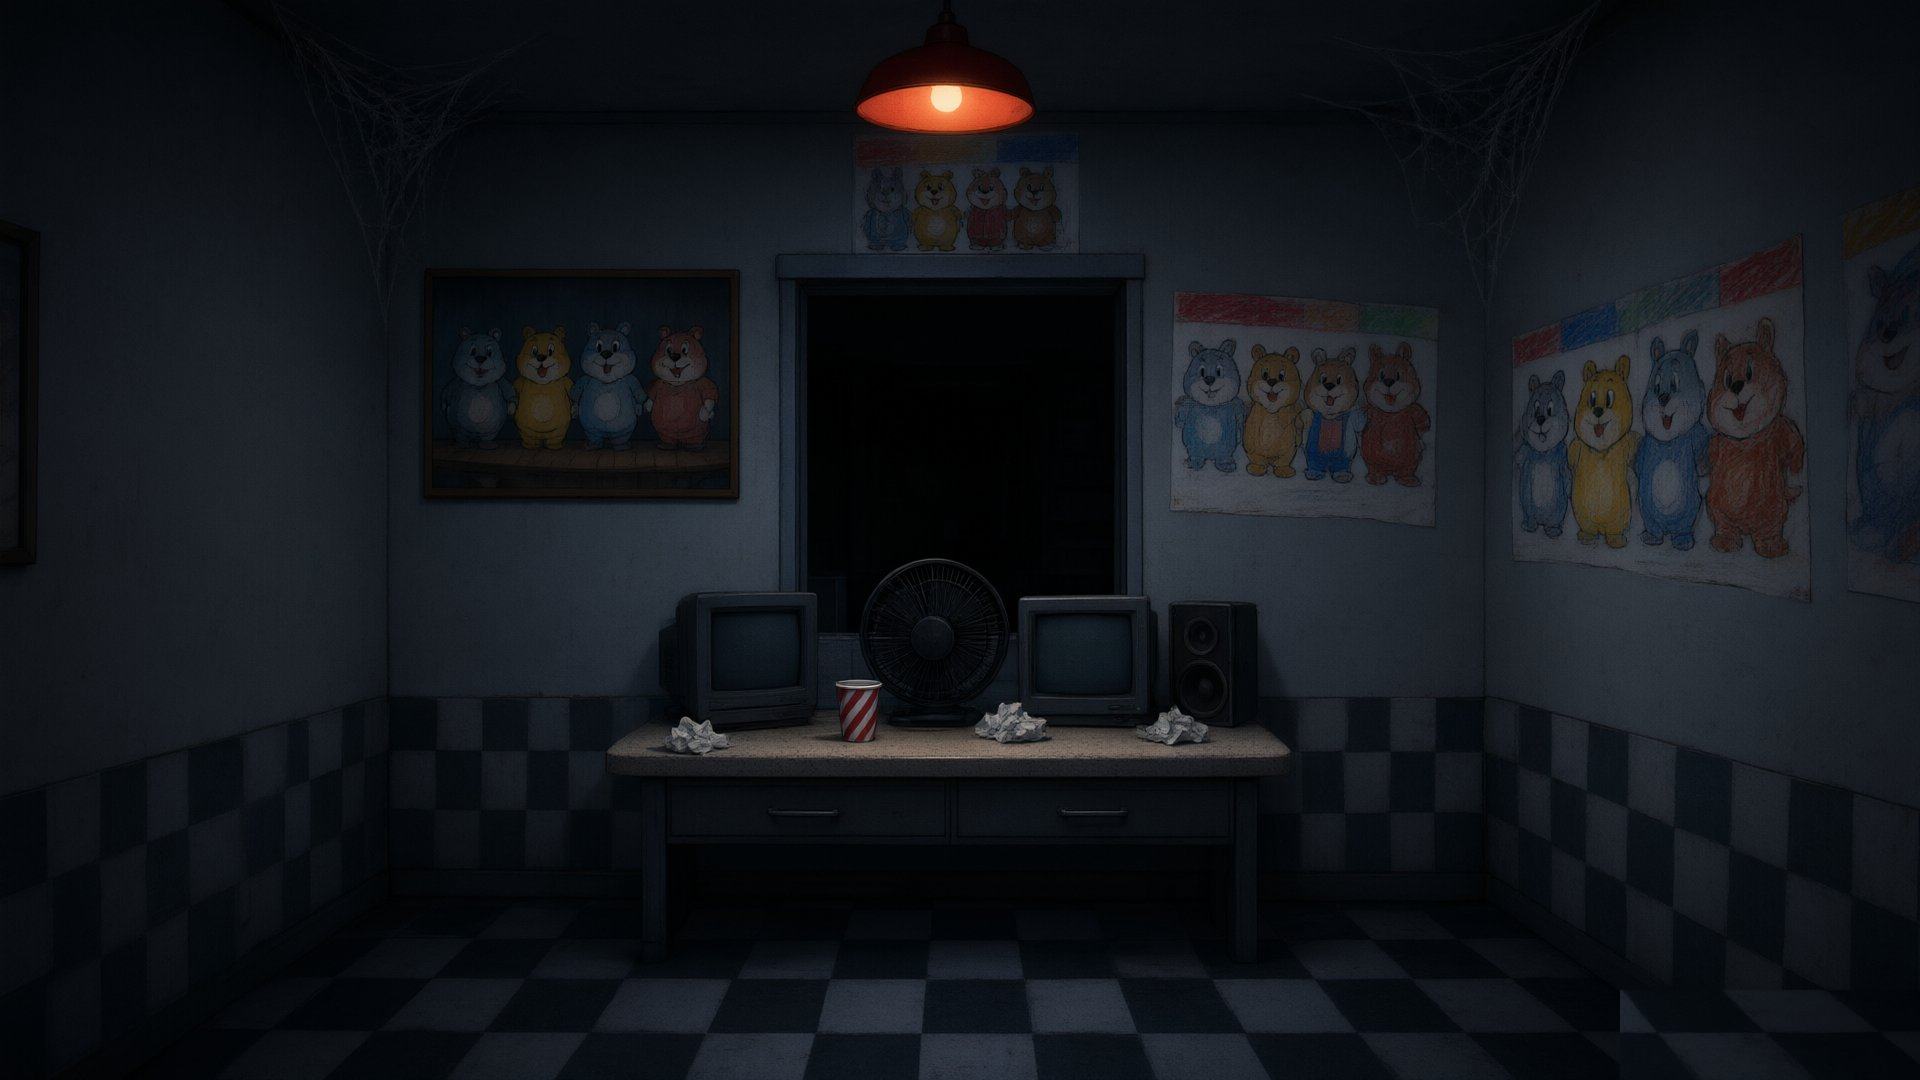
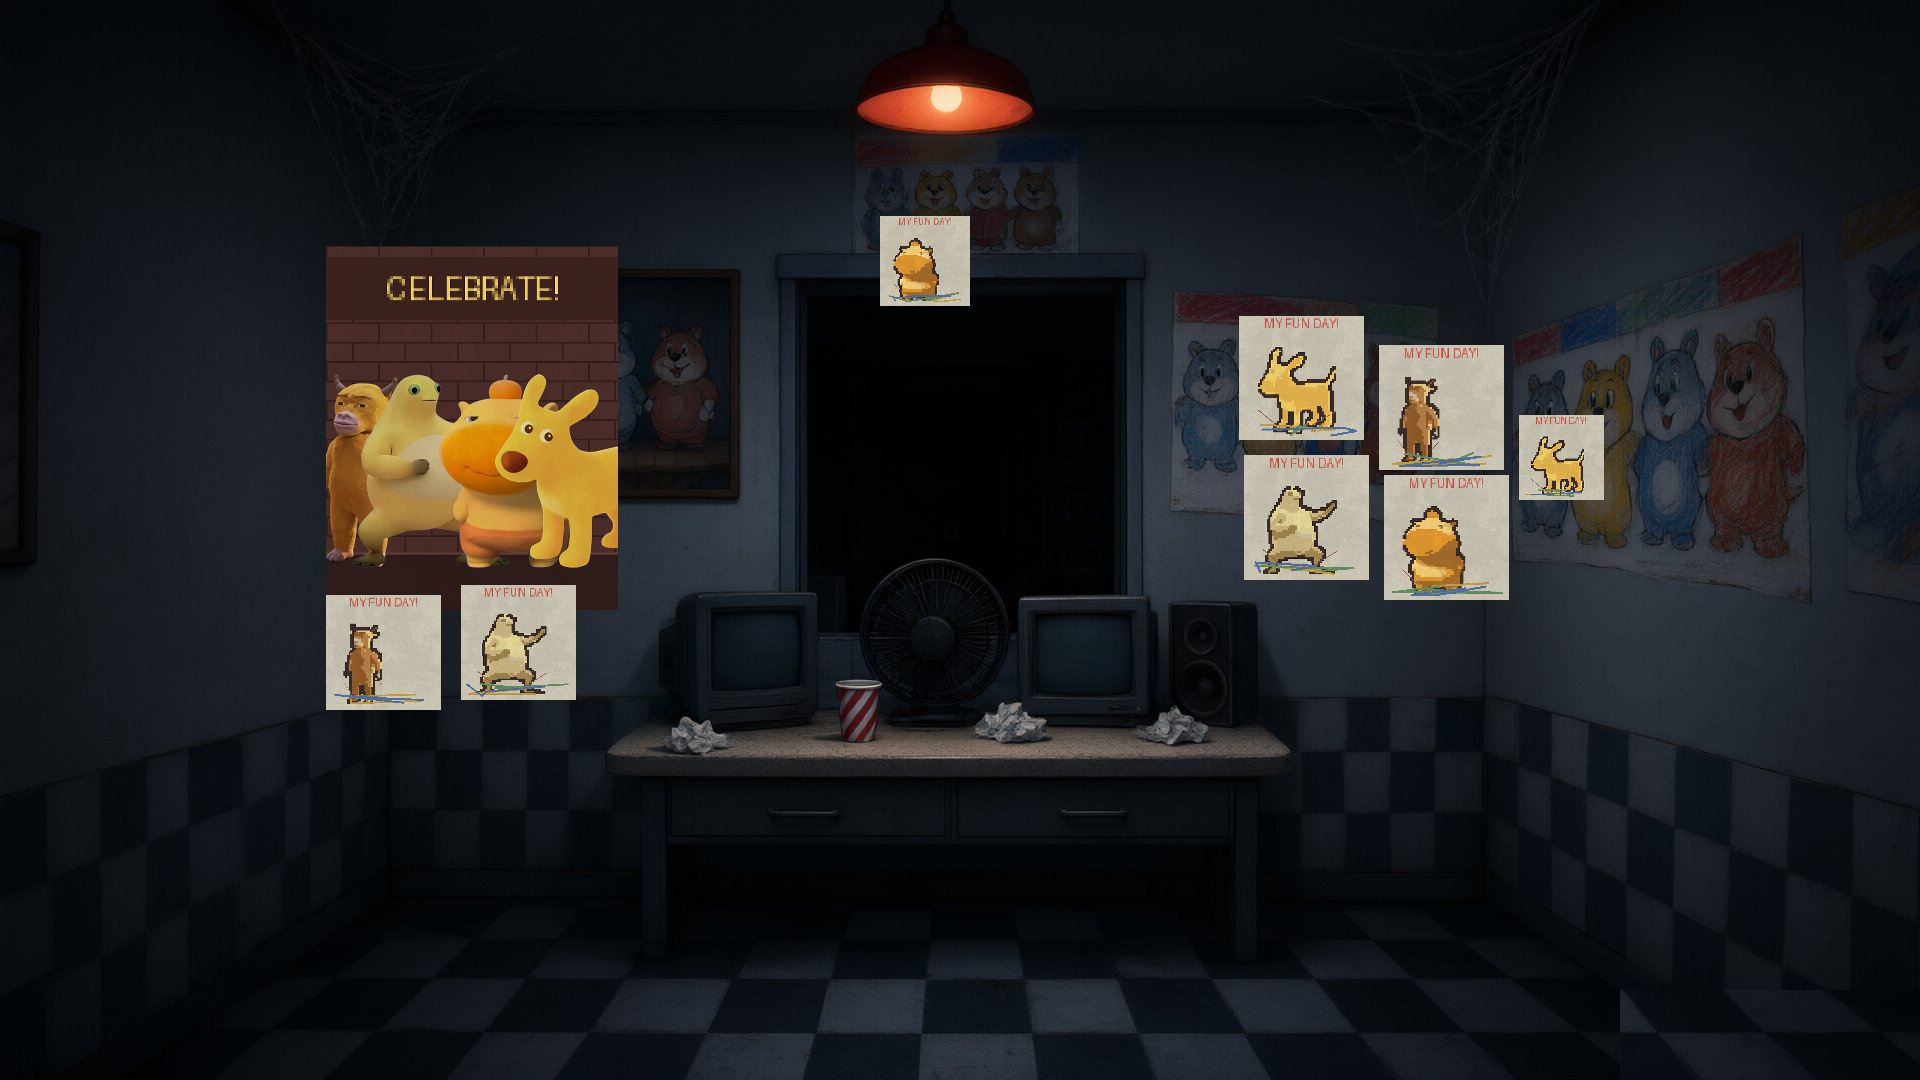
把千问背景里后墙/侧墙的海报和儿童画换回我们自己的角色版
绿子要求保留千问的办公室，只把墙上的画换成之前程序渲染的（用我们自己的角色）。
新增 tools/swap_wall_art.py：复用 gen_placeholder_art 的画生成函数得到干净的
海报/儿童画，再按同一相机参数透视投到屏幕上贴回千问的图。

Changed region(s): [[0.1562, 0.2139, 0.3438, 0.6722], [0.625, 0.275, 0.8438, 0.5806], [0.4375, 0.1833, 0.5312, 0.3056]]

diff --git a/tools/swap_wall_art.py b/tools/swap_wall_art.py
@@ -1,0 +1,153 @@
+#!/usr/bin/env python3
+"""把千问 AI 的办公室背景里、后墙/侧墙上的海报和儿童画，换成我们之前程序渲染的
+（用我们自己角色的）版本。
+
+做法：复用 gen_placeholder_art.py 里的「海报 / 儿童画」生成函数得到干净的画（带砖底 /
+纸底，已经是我们自己的角色），再用同一套相机参数把每张画按它在墙上的 3D 位置
+透视投到屏幕上，贴回千问的图里对应的位置。
+
+因为程序版和千问版是同一个 FNAF 1 办公室、同一个机位，墙和画在屏幕上的位置基本
+重合，所以直接按程序算出来的位置贴回去就行。绿子看了若觉得某张画位置偏了，
+调下面 DECALS 里的 u/v（或脚本里的偏移）即可。
+
+运行：
+    C:/Users/DELL/.workbuddy-ai/binaries/python/envs/default/Scripts/python.exe \
+        tools/swap_wall_art.py
+"""
+
+import math
+import os
+import sys
+
+import numpy as np
+from PIL import Image
+
+ROOT = os.path.dirname(os.path.dirname(os.path.abspath(__file__)))
+if ROOT not in sys.path:
+    sys.path.insert(0, os.path.join(ROOT, "tools"))
+import gen_placeholder_art as G  # noqa: E402
+
+OUT = G.OUT
+W, H = G.W, G.H
+
+
+def to_pil(arr):
+    return Image.fromarray((np.clip(arr, 0.0, 1.0) * 255).astype(np.uint8), "RGB")
+
+
+def plane_of(axis, side_max):
+    if axis == 2:
+        return G.ROOM_MAX[2] if side_max else G.ROOM_MIN[2]
+    if axis == 0:
+        return G.ROOM_MIN[0] if not side_max else G.ROOM_MAX[0]
+    return G.ROOM_MIN[1] if not side_max else G.ROOM_MAX[1]
+
+
+def world_pt(axis, plane, u, v):
+    if axis == 0:
+        return (plane, v, u)
+    if axis == 1:
+        return (u, plane, v)
+    return (u, v, plane)
+
+
+def perspective_coeffs(src_pts, dst_pts):
+    """解出 dst->src 的 8 个透视系数（PIL 的 Image.PERSPECTIVE 要的就是这个）。"""
+    A = []
+    B = []
+    for (x, y), (xp, yp) in zip(dst_pts, src_pts):
+        A.append([x, y, 1, 0, 0, 0, -x * xp, -y * xp])
+        B.append(xp)
+        A.append([0, 0, 0, x, y, 1, -x * yp, -y * yp])
+        B.append(yp)
+    sol, _, _, _ = np.linalg.lstsq(np.array(A, np.float64), np.array(B, np.float64),
+                                   rcond=None)
+    return [float(v) for v in sol]
+
+
+def build_sprites(tex):
+    sprites = [G.load_character(code) for code in G.CAST]
+    celebrate = to_pil(G.make_celebrate_poster(tex["paper"], sprites))
+    have = [s for s in sprites if s is not None]
+    draws = []
+    for i, seed in enumerate((3, 5, 7, 11, 13, 17, 19, 23)):
+        draws.append(to_pil(G.make_drawing(tex["paper"], seed,
+                                            have[i % len(have)] if have else None)))
+    return celebrate, draws
+
+
+def main():
+    print("生成我们自己的海报 / 儿童画 …")
+    tex = G.load_textures()
+    celebrate, draws = build_sprites(tex)
+
+    # (axis, side_max, u0, v0, u1, v1, sprite) —— 抄自 gen_placeholder_art.build_decals
+    DECALS = [
+        (2, True, -2.54, 1.02, -1.37, 2.48, celebrate),
+        (2, True, -2.54, 0.62, -2.08, 1.08, draws[0]),
+        (2, True, -2.00, 0.66, -1.54, 1.12, draws[1]),
+        (2, True, -0.32, 2.24, 0.04, 2.60, draws[2]),
+        (2, True, 1.12, 1.70, 1.62, 2.20, draws[3]),
+        (2, True, 1.68, 1.58, 2.18, 2.08, draws[4]),
+        (2, True, 1.14, 1.14, 1.64, 1.64, draws[5]),
+        (2, True, 1.70, 1.06, 2.20, 1.56, draws[6]),
+        (2, True, 2.24, 1.46, 2.58, 1.80, draws[7]),
+        (0, False, -1.12, 1.30, -0.56, 1.86, draws[0]),
+        (0, False, -0.48, 1.46, -0.02, 1.92, draws[2]),
+        (0, True, -1.12, 1.30, -0.56, 1.86, draws[1]),
+        (0, True, -0.48, 1.46, -0.02, 1.92, draws[3]),
+    ]
+
+    for name, yaw, _seed in G.VIEWS:
+        src_path = os.path.join(OUT, "bg_office_%s.png" % name)
+        if not os.path.exists(src_path):
+            print("  ! 跳过（没有 %s）" % name)
+            continue
+        base = Image.open(src_path).convert("RGB")
+        printed = False
+
+        for axis, side_max, u0, v0, u1, v1, sprite in DECALS:
+            plane = plane_of(axis, side_max)
+            # 画的四个角：(u,v) -> 屏幕；sprite 角对应 (du,dv)
+            # du=(u-u0)/(u1-u0), dv=(v1-v)/(v1-v0)：dv=0 在 v=v1(顶)，
+            # dv=1 在 v=v0(底)
+            corners = [
+                ((u0, v1), (0, 0)),
+                ((u1, v1), (sprite.width, 0)),
+                ((u0, v0), (0, sprite.height)),
+                ((u1, v0), (sprite.width, sprite.height)),
+            ]
+            dst = []
+            valid = True
+            for (u, v), _s in corners:
+                wp = world_pt(axis, plane, u, v)
+                sx, sy = G.project(wp, G.CAM, yaw)
+                if G.depth_of(wp, G.CAM, yaw) <= 0.05:
+                    valid = False
+                    break
+                dst.append((sx, sy))
+            if not valid:
+                continue
+            src_pts = [c[1] for c in corners]
+
+            coeffs = perspective_coeffs(src_pts, dst)
+            warped = sprite.transform((W, H), Image.PERSPECTIVE, coeffs,
+                                      Image.BICUBIC)
+            white = Image.new("L", sprite.size, 255)
+            wmask = white.transform((W, H), Image.PERSPECTIVE, coeffs, Image.BICUBIC)
+            wmask = wmask.point(lambda p: 255 if p > 128 else 0)
+
+            base.paste(warped, (0, 0), wmask)
+
+            if not printed:
+                print("  贴 %s 的画 …" % name)
+                printed = True
+
+        base.save(src_path)
+        print("  wrote", os.path.relpath(src_path, ROOT))
+
+    print("完成。千问的办公室保留，墙上的画换成我们自己的角色了。")
+
+
+if __name__ == "__main__":
+    main()
